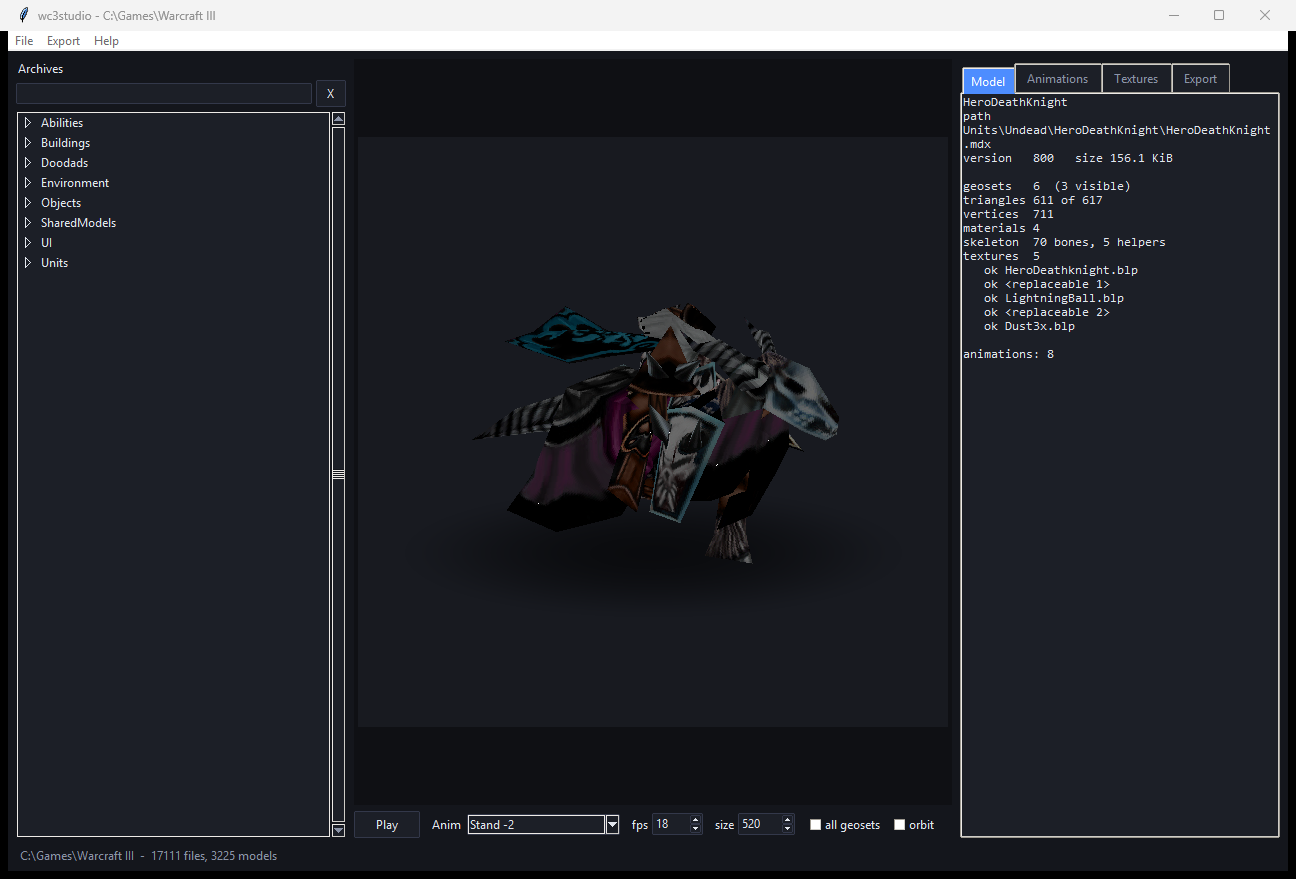
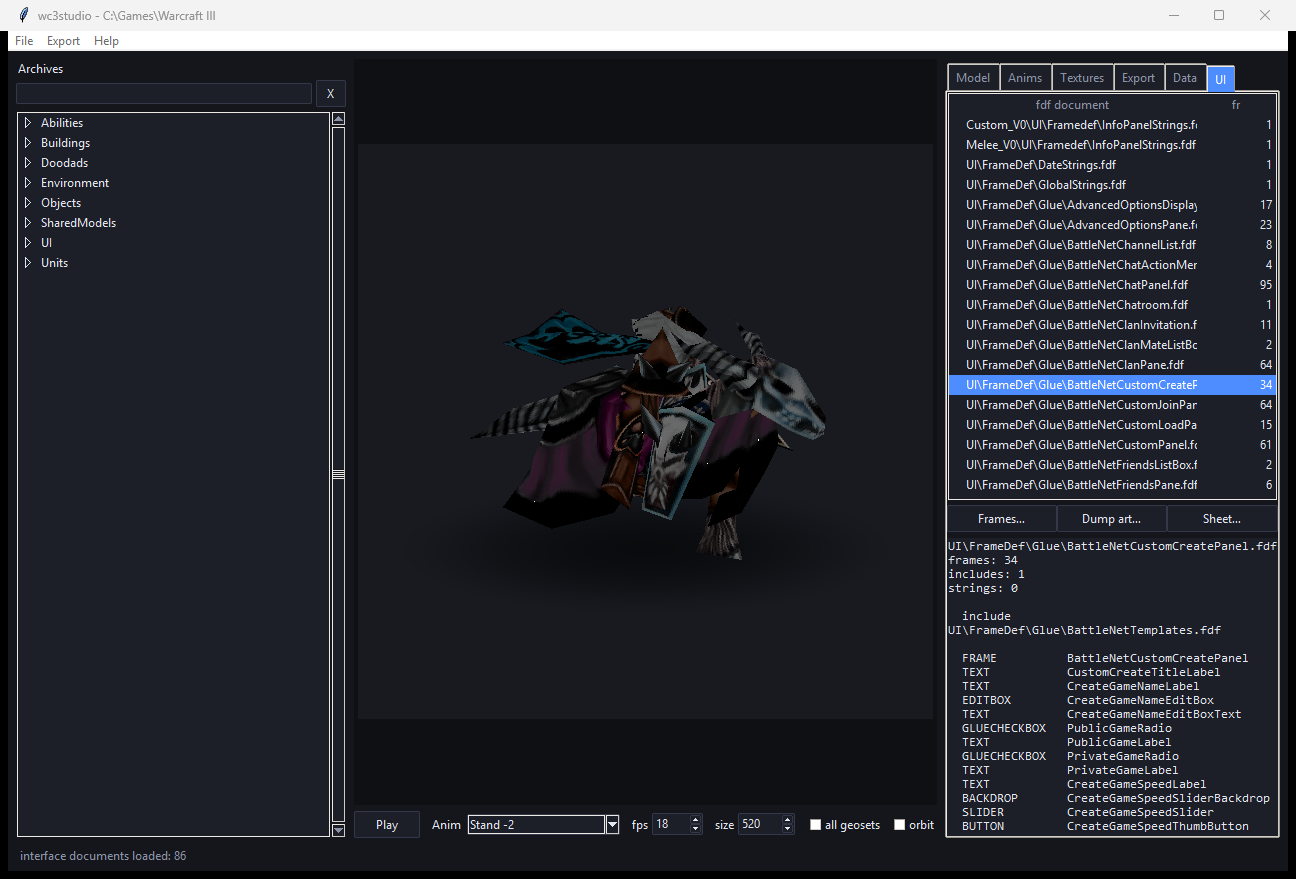
docs: 1.1.0 sections for data tables and the interface
README documents the new commands, the unit database, the FDF quirks and the
format traps (SYLK row numbers, FDF property-vs-block), updates the module and
test tables, and adds a render of the interface artwork. CHANGELOG covers the
release.

Changed region(s): [[0.7099, 0.0614, 0.9877, 0.9522], [0.3704, 0.3379, 0.6481, 0.6451], [0.0, 0.9522, 0.216, 0.9829]]

diff --git a/README.md b/README.md
@@ -6,14 +6,16 @@
 [![Platform: Windows](https://img.shields.io/badge/platform-Windows-lightgrey.svg)](#установка)
 
 Инструмент для работы с ассетами Warcraft III: читает архивы игры (MPQ), разбирает
-модели (MDX), текстуры (BLP) и умеет всё это смотреть, анимировать и конвертировать.
+модели (MDX), текстуры (BLP), **таблицы данных (SLK/TXT)** и **интерфейс (FDF)** —
+и умеет всё это смотреть, анимировать, конвертировать и выгружать.
 
 Есть **CLI** для скриптов и пакетной обработки и **GUI** для просмотра глазами.
 
 ![GUI](docs/screenshot.png)
 
 **Содержание:** [Возможности](#возможности) · [Установка](#установка) ·
-[Быстрый старт](#быстрый-старт) · [GUI](#gui) · [Библиотека](#библиотека) ·
+[Быстрый старт](#быстрый-старт) · [GUI](#gui) · [Таблицы данных](#таблицы-данных) ·
+[Интерфейс](#интерфейс) · [Библиотека](#библиотека) ·
 [Технические заметки](#технические-заметки) · [Тесты](#тесты) · [Ограничения](#ограничения)
 
 ## Возможности
@@ -26,6 +28,8 @@
 | **Просмотр** | собственный программный рендер: z-buffer, UV, альфа-смешивание, скиннинг, контактная тень |
 | **Анимация** | скелет, slerp-кватернионы, линейный скиннинг; плеер в GUI, экспорт GIF/MP4/PNG-секвенции |
 | **Экспорт** | **OBJ + MTL + PNG-текстуры** и **glTF 2.0 (.glb)** со скелетом и всеми анимациями |
+| **Данные** | 213 таблиц (SLK + INI) → CSV/JSON, склеенная база **812 юнитов** с русскими названиями и всеми характеристиками |
+| **Интерфейс** | 86 FDF → дерево **2239 фреймов** с наследованием шаблонов, 1214 локализованных строк, выгрузка 1561 картинки UI в PNG |
 | **Проверка** | `validate` (индексы OBJ, ссылки на MTL, структура GLB) и `doctor` (окружение, поиск игры) |
 
 ## Установка
@@ -55,6 +59,11 @@ wc3studio render  --model "Units\Human\Knight\Knight.mdx" --out knight.png --seq
 wc3studio animate --model sheep --sequence "Stand,Walk,Walk,Death" --out out\sheep --mp4
 wc3studio gallery --out out\gallery
 wc3studio validate out\sheep
+
+wc3studio tables                                  # какие есть таблицы данных
+wc3studio units --limit 10                        # база юнитов с русскими названиями
+wc3studio ui --frames --filter backdrop           # фреймы интерфейса
+wc3studio ui-assets --out out\ui --sheet out\ui.png --filter Widgets
 ```
 
 Модель можно указывать полным внутренним путём, частичным или просто именем файла
@@ -81,10 +90,61 @@ wc3studio gui
 * в центре — превью: **мышью** вращение, **колесом** зум, стрелки — тоже вращение,
   `Space` — пуск/стоп анимации;
 * справа — вкладки: параметры модели, список анимаций (двойной клик — проиграть),
-  текстуры с превью, экспорт (OBJ / GLB / GIF / PNG / сырой `.mdx`).
+  текстуры с превью, экспорт (OBJ / GLB / GIF / PNG / сырой `.mdx`),
+  **Data** (все таблицы, двойной клик — таблица с фильтром и выгрузкой в CSV) и
+  **UI** (FDF-документы, браузер фреймов, выгрузка картинок интерфейса).
 
 Рендер идёт в отдельном потоке, поэтому интерфейс не замирает; устаревшие кадры
-отбрасываются по идентификатору запроса.
+отбрасываются по идентификатору запроса. Таблицы и FDF тоже грузятся в фоне.
+
+## Таблицы данных
+
+Игра хранит все свои числа не в коде, а в текстовых таблицах: 59 файлов `.slk`
+(SYLK-«эксель») и 154 `.txt` (INI-подобные). В них — юниты, способности, предметы,
+постройки, звуки, апгрейды.
+
+```powershell
+wc3studio tables                                   # 213 таблиц с числом строк и колонок
+wc3studio units --limit 10                         # склеенная база юнитов
+wc3studio units --out units.csv                    # все 812 юнитов в CSV
+wc3studio table UnitBalance --where level=1 --limit 5
+wc3studio table UnitWeapons --columns unitWeapID,avgdmg1,DPS --format csv --out weapons.csv
+```
+
+`TableDatabase.units()` склеивает четыре таблицы (`UnitBalance`, `UnitData`,
+`UnitWeapons`, `UnitAbilities`) по идентификатору юнита и подмешивает локализацию:
+
+| id | name | race | level | hp | armor | damage | dps | gold | lumber | food |
+|---|---|---|---|---|---|---|---|---|---|---|
+| `hfoo` | Пехотинец | human | 2 | 420 | 2 | 12.5 | 9.26 | 135 | 0 | 2 |
+| `ogru` | Бугай | orc | 3 | 700 | 1 | 19.5 | 12.19 | 200 | 0 | 3 |
+| `ugho` | Вурдалак | undead | 2 | 330 | 0 | 13 | 10 | 120 | 0 | 2 |
+| `earc` | Лучница | nightelf | 2 | 310 | 0 | 17 | 11.33 | 130 | 10 | 2 |
+| `Hpal` | Паладин | human | 5 | 650 | 2 | 7 | 3.18 | 425 | 100 | 5 |
+
+## Интерфейс
+
+`.fdf` — текстовое описание интерфейса: дерево `Frame "TYPE" "NAME"` с свойствами,
+вложенными `Texture { File "..." }`, наследованием шаблонов (`INHERITS`,
+`INHERITS WITHCHILDREN`) и блоками `StringList` с локализованным текстом.
+
+```powershell
+wc3studio ui                                       # 86 документов, сколько в каждом фреймов
+wc3studio ui --frames --filter backdrop            # список фреймов
+wc3studio ui-frame StandardHeavyBackdropTemplate   # свойства с учётом наследования
+wc3studio strings --kind ui --search меню          # подписи интерфейса
+wc3studio ui-textures --filter Widgets             # картинки интерфейса
+wc3studio ui-assets --out out\ui --filter Widgets --sheet out\ui.png
+```
+
+![UI artwork](docs/ui-sheet.png)
+
+* 2239 фреймов, 1849 уникальных имён, **ноль предупреждений** парсера на всех 86 файлах;
+* `ui-frame` показывает итоговые свойства с пометкой, из какого шаблона они пришли, и
+  проверяет, есть ли текстуры в этой установке (208 ссылок разрешаются, 34 — из более
+  новых патчей, их в архивах нет);
+* 1214 локализованных строк (в этой установке — русских): `|Cffffff00Ловкость|R` и т.п.;
+* выгрузка картинок интерфейса: 1561 изображение, 84 МиБ, плюс контактный лист.
 
 ## Библиотека
 
@@ -106,11 +166,26 @@ export_glb(model, "sheep.glb", resources)       # скелет + все аним
 Более высокоуровневый вход — `wc3studio.pipeline.Session`: он держит открытую игру,
 кэши моделей и текстур и объединяет все операции (им пользуются CLI и GUI).
 
+```python
+from wc3studio import TableDatabase, UiLibrary
+
+units = TableDatabase(game).units()               # 812 юнитов одной таблицей
+units.write("units.csv", "csv")
+print(units.find_row("hfoo"))                     # ['hfoo', 'Пехотинец', 'human', ...]
+
+ui = UiLibrary(game)
+details = ui.resolve("StandardHeavyBackdropTemplate")
+print(details["chain"], details["textures"])     # шаблон + его текстуры
+print(ui.strings()["AGILITY"])                    # 'Ловкость'
+```
+
 | Модуль | Что делает |
 |---|---|
 | `stormlib.py` | ctypes-обёртка StormLib, `Archive`, `Game` (цепочка патчей, регистронезависимый поиск) |
 | `mdx.py` | парсер MDX: чанки, геосеты, материалы, узлы скелета, треки, последовательности |
 | `blp.py` | декодер BLP1 (палитра и JPEG-вариант) |
+| `tables.py` | SYLK/INI, `Table`, `TableDatabase`, склейка базы юнитов, CSV/JSON |
+| `ui.py` | `parse_fdf`, дерево `Frame`, `UiLibrary` (шаблоны, строки, картинки, контактный лист) |
 | `anim.py` | скелет, сэмплирование треков, slerp, линейный скиннинг |
 | `render.py` | программный рендер (z-buffer, текстуры, blending, скиннинг, тень) |
 | `objexport.py` | OBJ/MTL + PNG-текстуры |
@@ -142,6 +217,14 @@ export_glb(model, "sheep.glb", resources)       # скелет + все аним
   вращении, канал переноса нужен **каждой** анимированной кости, даже если у неё нет
   своего трека переноса; интервалы между ключами дополнительно дробятся по углу поворота,
   чтобы линейная интерполяция glTF не расходилась с движком (расхождение < 0.1 единицы).
+* **SLK.** Это SYLK, а не бинарь: одна запись `C;` на ячейку, а номер строки `Y`
+  указывается **только при её смене** — если читать как обычные координаты, из 57 колонок
+  получится одна. Плюс кавычки экранируются удвоением (`""`), а `#VALUE!` из исходных
+  эксель-таблиц так и лежит в данных.
+* **FDF.** Простой на вид формат, но с ловушками: `INHERITS WITHCHILDREN`, `Frame"TYPE"`
+  без пробела, `String "X" INHERITS`, `Texture INHERITS` без имени, комментарии двух видов
+  и — главное — `Text "KEY"` это **свойство**, а `Texture { ... }` — **блок**. Парсер
+  решает по просмотру вперёд: блок только там, где дальше идёт `{`.
 
 ## Тесты
 
@@ -149,16 +232,18 @@ export_glb(model, "sheep.glb", resources)       # скелет + все аним
 python -m unittest discover -s tests -v
 ```
 
-25 тестов в двух наборах:
+56 тестов в трёх наборах:
 
 * **`tests/test_synthetic.py`** — модель MDX собирается прямо в памяти и проходит весь
-  конвейер (парсинг → рендер → OBJ → GLB → чтение обратно). Эти тесты работают без
-  установленной игры, поэтому именно они крутятся в CI. Среди них — проверка того, что
-  поворот кости происходит вокруг её пивота: кость с пивотом `(5,0,0)`, повёрнутая на
-  90° вокруг Z, обязана перевести вершину `(0,0,0)` в `(5,-5,0)`.
-* **`tests/test_wc3studio.py`** — тесты на реальных архивах (математика кватернионов,
-  регистронезависимый поиск, парсинг моделей, правило видимости геосетов, движение
-  вершин, рендер, экспорт OBJ и GLB). Без установленной игры помечаются как skipped.
+  конвейер (парсинг → рендер → OBJ → GLB → чтение обратно). Работает без игры, поэтому
+  крутится в CI. Среди проверок — что поворот кости идёт вокруг её пивота: кость с пивотом
+  `(5,0,0)`, повёрнутая на 90° вокруг Z, обязана перевести вершину `(0,0,0)` в `(5,-5,0)`.
+* **`tests/test_tables_ui.py`** — тоже без игры: синтетические SLK (с «ленивым» `Y` и
+  экранированными кавычками), INI с секциями и разреженными ключами, FDF со всеми
+  вариантами синтаксиса и вложенными блоками, CSV/JSON-экспорт, контактный лист.
+* **`tests/test_wc3studio.py`** и игровые тесты в `test_tables_ui.py` — на реальных
+  архивах: 812 юнитов, ноль предупреждений на 86 FDF, локализованные строки, инвентарь
+  картинок. Без установленной игры помечаются как skipped.
 
 Самый ценный — round-trip GLB: файл читается обратно, скиннинг из него сравнивается с
 эталонным скиннингом MDX; расхождение должно быть меньше 0.5 единицы. Дополнительно
@@ -170,7 +255,9 @@ python -m unittest discover -s tests -v
 ```
 wc3studio/            пакет
   stormlib.py         MPQ через StormLib (ctypes)
-  mdx.py  blp.py      парсеры форматов
+  mdx.py  blp.py      парсеры форматов ассетов
+  tables.py           SLK/INI: таблицы данных, база юнитов
+  ui.py               FDF: дерево фреймов, строки, картинки интерфейса
   anim.py             скелет и скиннинг
   render.py           программный рендер
   objexport.py        OBJ/MTL
@@ -179,9 +266,9 @@ wc3studio/            пакет
   pipeline.py         Session — общий слой для CLI и GUI
   cli.py  gui.py      интерфейсы
   vendor/             StormLib.dll (x64, MIT)
-tests/                25 тестов
+tests/                56 тестов
 tools/                smoke-скрипты, проверка GLB через trimesh, захват окна
-docs/                 скриншот, галерея, демо-анимация
+docs/                 скриншот, галерея, демо-анимация, картинка интерфейса
 .github/workflows/    CI
 ```
 

diff --git a/CHANGELOG.md b/CHANGELOG.md
@@ -4,6 +4,40 @@ All notable changes to this project are documented here.
 The format follows [Keep a Changelog](https://keepachangelog.com/en/1.1.0/) and the
 project adheres to [Semantic Versioning](https://semver.org/spec/v2.0.0.html).
 
+## [1.1.0] - 2026-10-17
+
+The game's numbers and its interface.
+
+### Added
+
+* **Data tables** (`wc3studio/tables.py`) — parser for the SYLK spreadsheets the game
+  keeps its gameplay in (a cell is `C;X<col>[;Y<row>];K<value>`, and the row number only
+  appears when it changes) plus the INI-like `.txt` files with `[section]` headers.
+  `Table` supports column selection, filtering, CSV/JSON export and writing to disk.
+* **`TableDatabase`** — discovers all 213 tables (59 SLK + 154 TXT), loads them lazily,
+  resolves friendly names (`UnitBalance` → `Units\UnitBalance.slk`, not the Custom/Melee
+  copies) and joins the four unit spreadsheets into a single **812-row unit database**
+  with localised names, HP, mana, armour, damage, DPS, cost, food, build time and
+  ability lists.
+* **Interface layer** (`wc3studio/ui.py`) — FDF parser producing a frame tree with
+  `INHERITS`/`INHERITS WITHCHILDREN` resolution, nested `Texture`/`String` blocks,
+  `StringList` localisation, `IncludeFile` references and both comment styles. Parses all
+  86 shipped FDF files (2239 frames, 1849 unique names) with **zero warnings**.
+* **`UiLibrary`** — frame index, merged properties through the template chain, texture
+  reference resolution (including `.mdl` → `.mdx` and case-insensitive basenames),
+  1214 localised UI strings, UI artwork inventory (1561 images, 84 MiB) and PNG export
+  with contact sheets.
+* **Localisation** — Russian unit names and UI labels are read from the game files
+  (`Units\*Strings.txt`, `StringList` blocks).
+* **CLI** — new subcommands `tables`, `table`, `units`, `strings`, `ui`, `ui-frame`,
+  `ui-textures`, `ui-assets`.
+* **GUI** — two new tabs: **Data** (all tables in a tree, double-click opens a filterable
+  grid with CSV export) and **UI** (FDF documents with their frames, frame browser with
+  resolved templates, UI artwork dump and contact sheet).
+* **Tests** — 56 total (was 25): synthetic SLK/INI/FDF fixtures that run everywhere plus
+  game-backed checks (table shapes, unit database contents, zero-warning FDF parsing,
+  localised strings, artwork inventory).
+
 ## [1.0.0] - 2026-10-17
 
 First public release.
